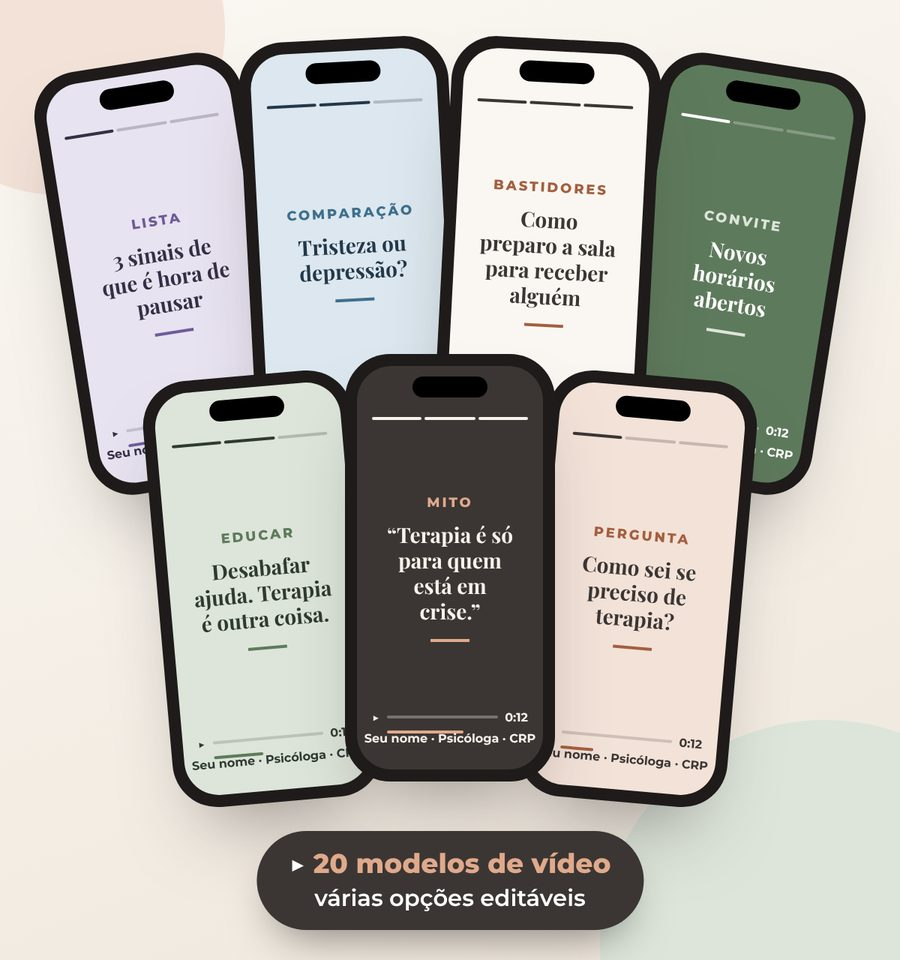
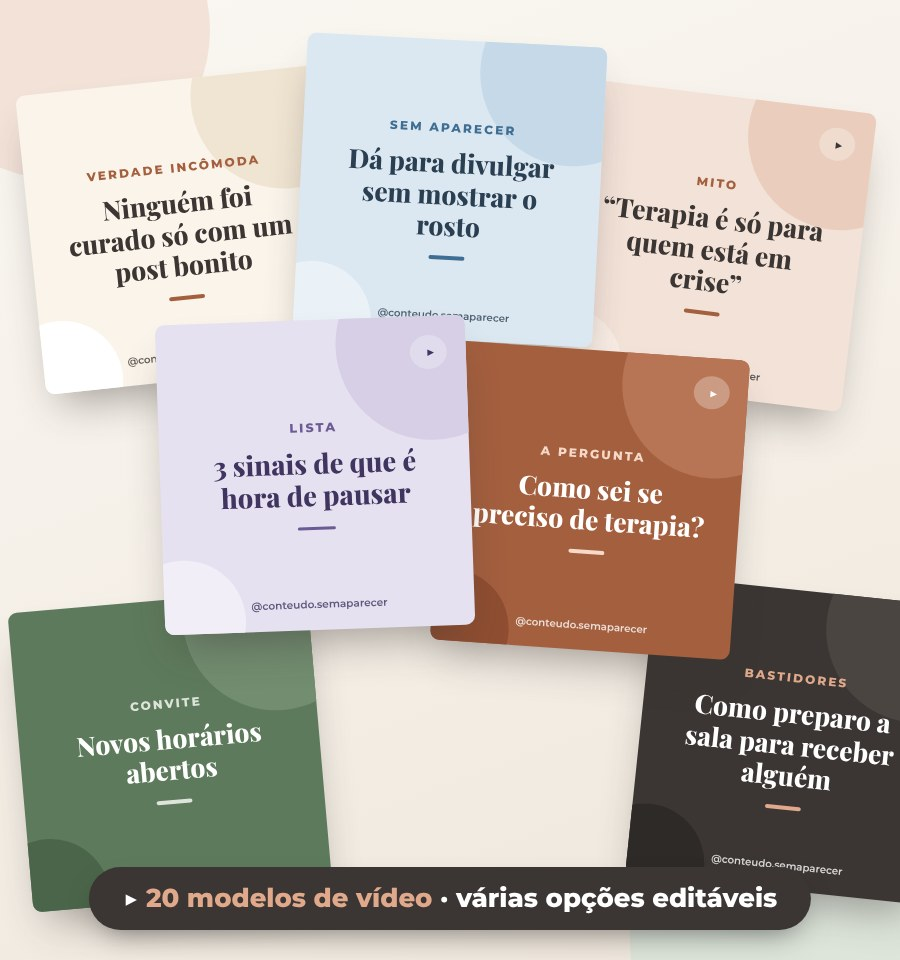
Pack 20 Modelos: imagem com posts no estilo real (bolinhas, rótulo, @handle)
Claude-Session: https://claude.ai/code/session_019gApqEvePQwvVzz1sAvbWL

diff --git a/index.html b/index.html
@@ -1657,7 +1657,7 @@ html,body{overflow-x:clip}
       <article class="it"><div class="it-img"><picture><source media="(max-width:820px)" srcset="img/item-calendario-m.jpg?v=3" width="900" height="960"><img src="img/item-calendario.jpg?v=3" alt="Calendário 365 automático" loading="lazy" width="1440" height="900"></picture></div><div class="it-txt"><span class="it-tag">Calendário</span><h3>Calendário 365 automático</h3><p>Você coloca a data de início e ele organiza o seu ano inteiro: um pilar para cada dia da semana, mais de 700 temas e 8 datas especiais. Todo dia, a aba Hoje entrega o post do dia.</p></div></article>
       <article class="it"><div class="it-img"><picture><source media="(max-width:820px)" srcset="img/item-prompts-m.jpg?v=3" width="900" height="960"><img src="img/item-prompts.jpg?v=3" alt="Banco de 102 prompts para psicologia" loading="lazy" width="1440" height="900"></picture></div><div class="it-txt"><span class="it-tag">Prompts</span><h3>Banco de 102 prompts para psicologia</h3><p>Um pilar para cada dia da semana, de Educar a Convite, com 7 temas em cada prompt. Feitos considerando as orientações do CFP.</p></div></article>
       <article class="it"><div class="it-img"><picture><source media="(max-width:820px)" srcset="img/item-ficha-m.jpg?v=4" width="900" height="960"><img src="img/item-ficha.jpg?v=4" alt="Ficha do Negócio preenchida com um exemplo e a IA respondendo que vai escrever no tom da psicóloga" loading="lazy" width="1440" height="900"></picture></div><div class="it-txt"><span class="it-tag">Ficha</span><h3>Ficha do Negócio + Prompt de Contexto</h3><p>17 perguntas curtas, respondidas uma vez só. A sua IA passa a escrever com a sua abordagem, o seu público e o seu tom. Com guia para ChatGPT, Gemini e Claude.</p></div></article>
-      <article class="it it-op"><div class="it-img"><picture><source media="(max-width:820px)" srcset="img/item-pack-m.jpg?v=3" width="900" height="960"><img src="img/item-pack.jpg?v=3" alt="Pack 20 Modelos Canva" loading="lazy" width="1440" height="900"></picture></div><div class="it-txt"><span class="it-tag">Opcional · R$ 27</span><h3>Pack 20 Modelos Canva</h3><p>20 modelos de vídeo com texto centralizado: troque o texto e baixe em MP4. Funciona com o Canva gratuito. Você adiciona no pagamento, se quiser.</p></div></article>
+      <article class="it it-op"><div class="it-img"><picture><source media="(max-width:820px)" srcset="img/item-pack-m.jpg?v=4" width="900" height="960"><img src="img/item-pack.jpg?v=4" alt="Pack 20 Modelos Canva" loading="lazy" width="1440" height="900"></picture></div><div class="it-txt"><span class="it-tag">Opcional · R$ 27</span><h3>Pack 20 Modelos Canva</h3><p>20 modelos de vídeo com texto centralizado: troque o texto e baixe em MP4. Funciona com o Canva gratuito. Você adiciona no pagamento, se quiser.</p></div></article>
     </div>
     <div class="guias">
       <div class="guias-txt">
